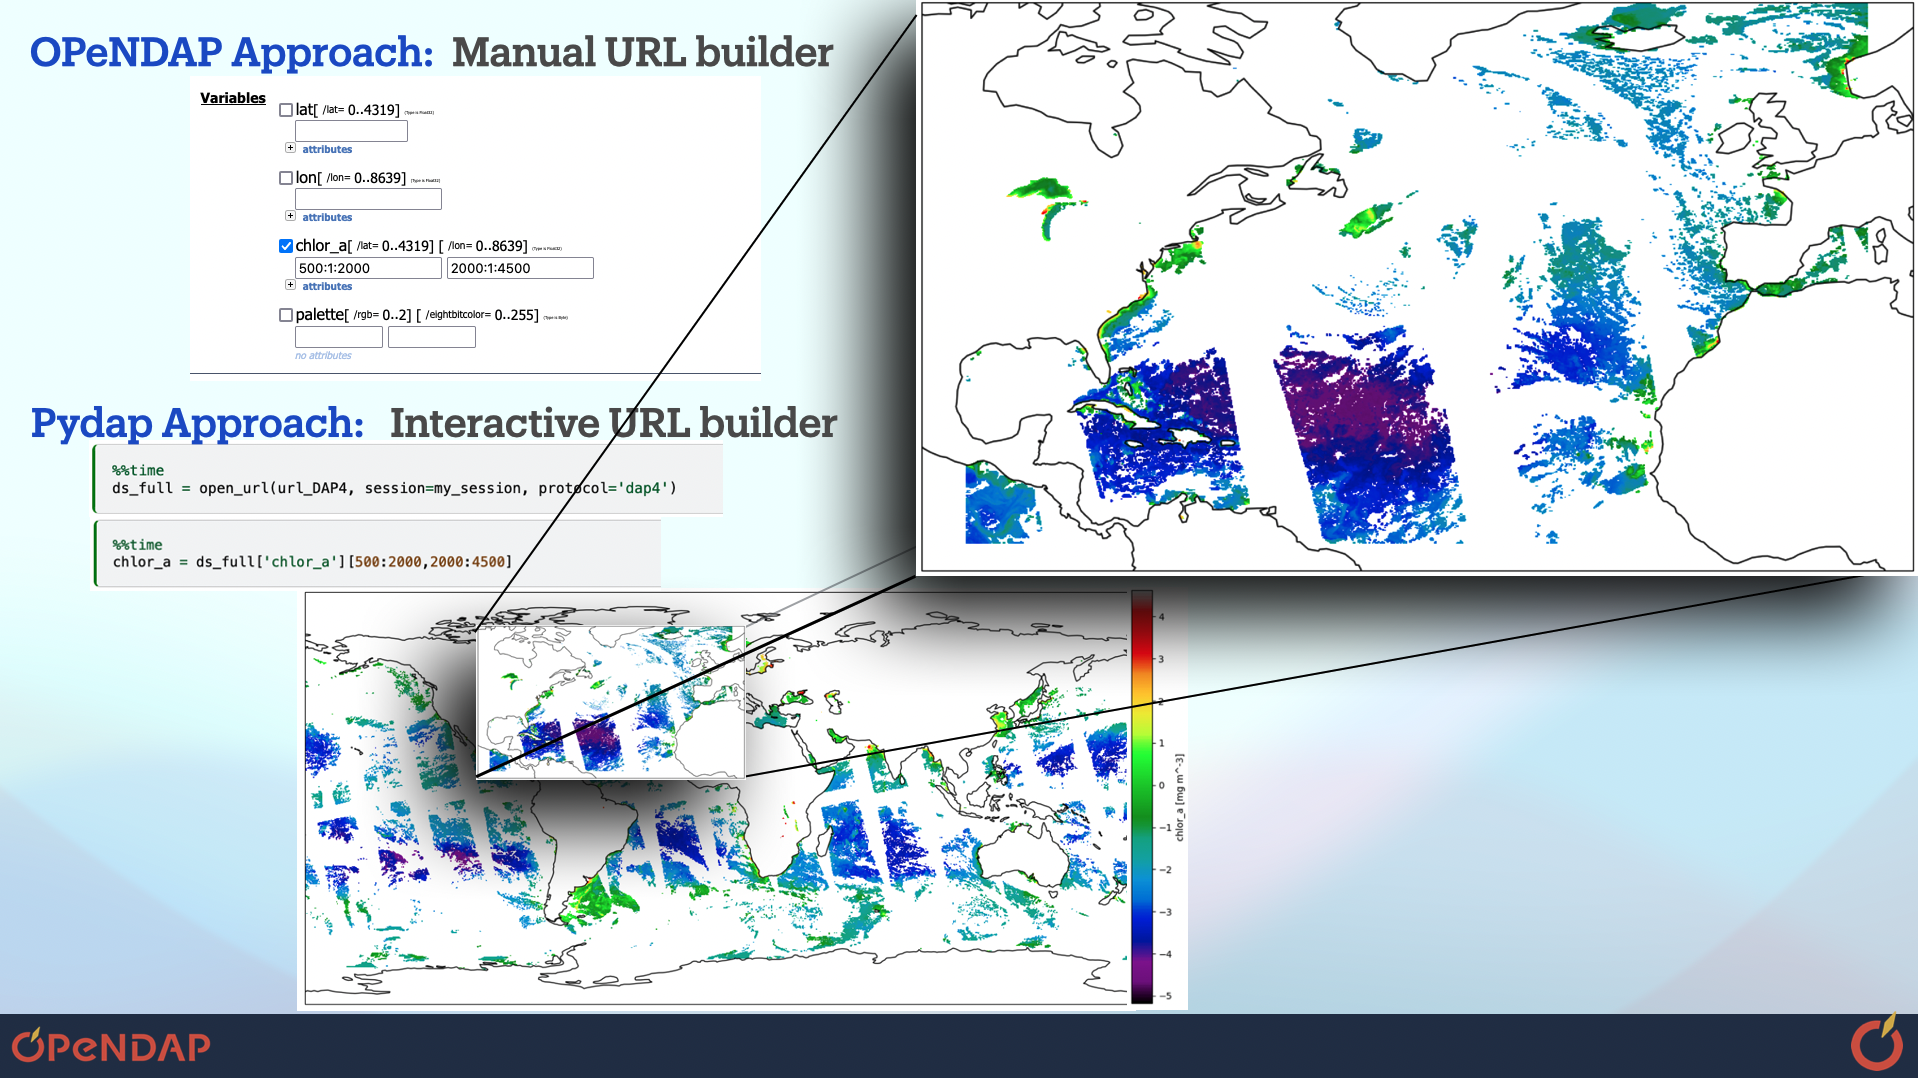
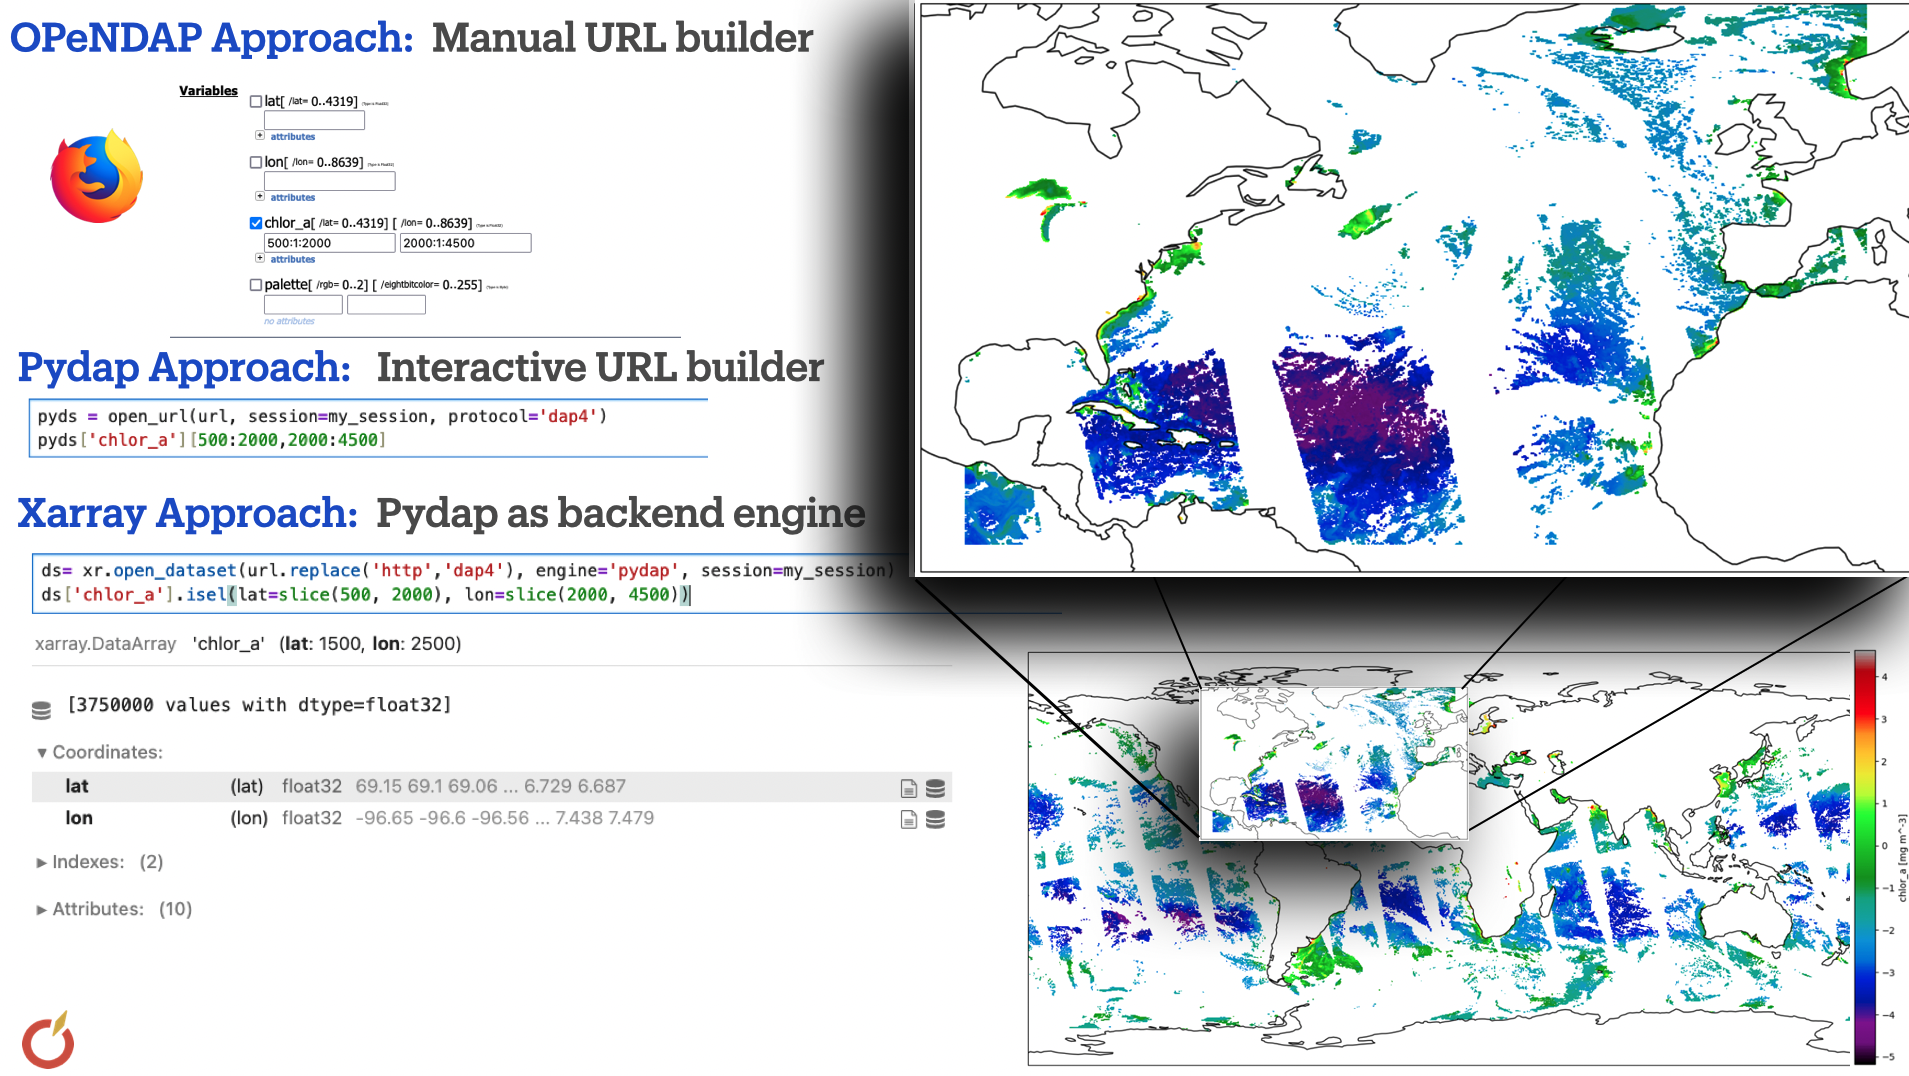
Update Why Pydap figure to show xarray using pydap (#491)
* update figure 1 to show xarray using pydap

* update text to reflect xarray options to use pydap

diff --git a/docs/es/intro.md b/docs/es/intro.md
@@ -24,7 +24,7 @@ Los usuarios principiantes de `OPeNDAP`, sin embargo, usualmente tienen que inve
 
 | ![WhyPydap](/images/WhyPydap.png) |
 |:--:|
-| *Figure 1. Comparacion entre dos maneras de descargar una subregion de archivo cientifico remoto en un servidor de OPeNDAP. En este ejemplo, la cobertura de los datos dentro del archivo remoto es global, y el usuario de pydap descarga solamente la region de interes al indexar el arreglo numerico de pydap. La mandera comun de OPeNDAP es por medio del `Data Request Form` que permite al usuario contruir manualmente el URL con su Expression de Restriccion.* |
+| *Figure 1. Comparacion entre 3 maneras de usar OPeNDAP para descargar una subregion de archivo cientifico remoto expuesto por un servidor de OPeNDAP. En este ejemplo, la cobertura de los datos dentro del archivo remoto es global, y el usuario de Pydap descarga solamente la region de interes al indexar el arreglo numerico de pydap. Para utilizar Pydap por medio de Xarray, es necesario definir pydap como motor (`engine='pydap'`). `Note` el reemplazo del esquema de http por dap4 en el URL. El acceso directo al servidor OPeNDAP es por medio del `Data Request Form` que permite al usuario construir manualmente el URL con su Expression de Restriccion.* |
 
 
 `Pydap` permite el acceso de informacion cientifica disponible en servidores de OPeNDAP de una manera pythonica, interactiva y exploratoria. En breve, `pydap`:

diff --git a/docs/en/intro.md b/docs/en/intro.md
@@ -23,7 +23,7 @@ Beginner OPeNDAP users may rapidly find themselves spending the time to better u
 
 | ![WhyPydap](/images/WhyPydap.png) |
 |:--:|
-| *Figure 1. Comparison of ways to download a subset of an entire remote file. In this example, the remote data covers the globe, and a pydap user downloads a subset by slicing the pydap array. A traditional OPeNDAP native approach is to use a Data Request Form to manually construct the URL along with its Constraint Expression.* |
+| *Figure 1. Comparison of 3 ways to download a subset of a remote file exposed by an OPeNDAP server. In this example, the data covers the globe, and a Pydap user downloads a subset by slicing the pydap array. To use Pydap via Xarray, one can specify `engine='pydap'` (`Note` the scheme change to the URL). A traditional OPeNDAP native approach is to use a `Data Request Form` to manually construct the URL along with its Constraint Expression.* |
 
 
 `Pydap` enables access to data on OPeNDAP servers in a pythonic way, and enables interactive and exploratory subsetting of remote datasets. To summarize `pydap`:
